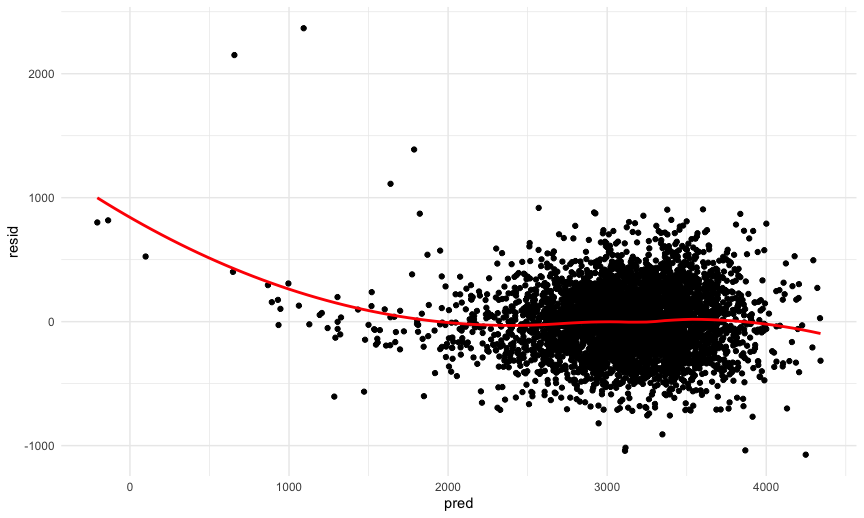
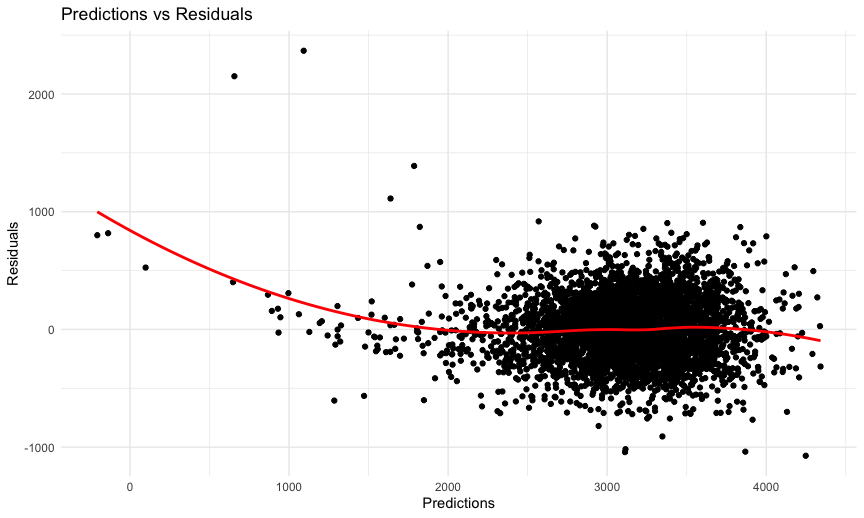
edit code

diff --git a/p8105_hw6_lk2776.md b/p8105_hw6_lk2776.md
@@ -151,14 +151,7 @@ bwt_data = bwt_data |>
 bwt_data |> 
   ggplot(aes(x = pred, y = resid)) +
   geom_point() +
-  geom_smooth(method = "loess", se = FALSE,color="red" ) #methods 1
-```
-
-    ## `geom_smooth()` using formula = 'y ~ x'
-
-<img src="p8105_hw6_lk2776_files/figure-gfm/unnamed-chunk-7-1.png" width="90%" />
-
-``` r
+  geom_smooth(method = "loess", se = FALSE,color="red" )+
   labs(
     title = "Predictions vs Residuals",
     x = "Predictions",
@@ -166,17 +159,9 @@ bwt_data |>
   ) 
 ```
 
-    ## $x
-    ## [1] "Predictions"
-    ## 
-    ## $y
-    ## [1] "Residuals"
-    ## 
-    ## $title
-    ## [1] "Predictions vs Residuals"
-    ## 
-    ## attr(,"class")
-    ## [1] "labels"
+    ## `geom_smooth()` using formula = 'y ~ x'
+
+<img src="p8105_hw6_lk2776_files/figure-gfm/unnamed-chunk-7-1.png" width="90%" />
 
 ``` r
 #main effects
@@ -320,5 +305,5 @@ conf_intervals
     ## # A tibble: 2 × 1
     ##   rsqured_ci
     ##        <dbl>
-    ## 1      0.894
+    ## 1      0.893
     ## 2      0.927
